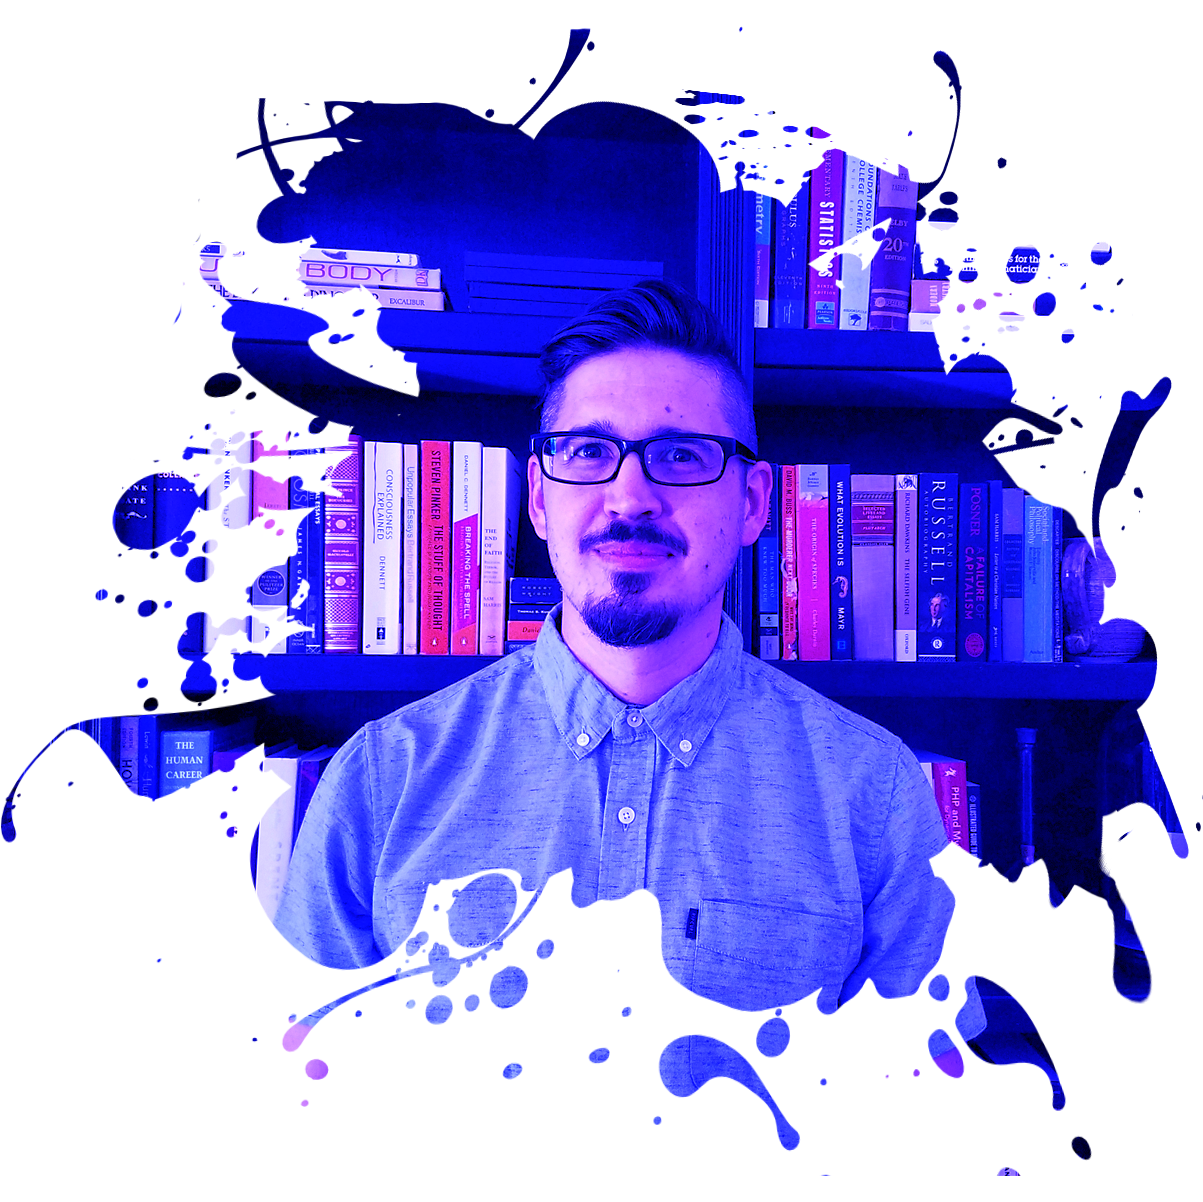
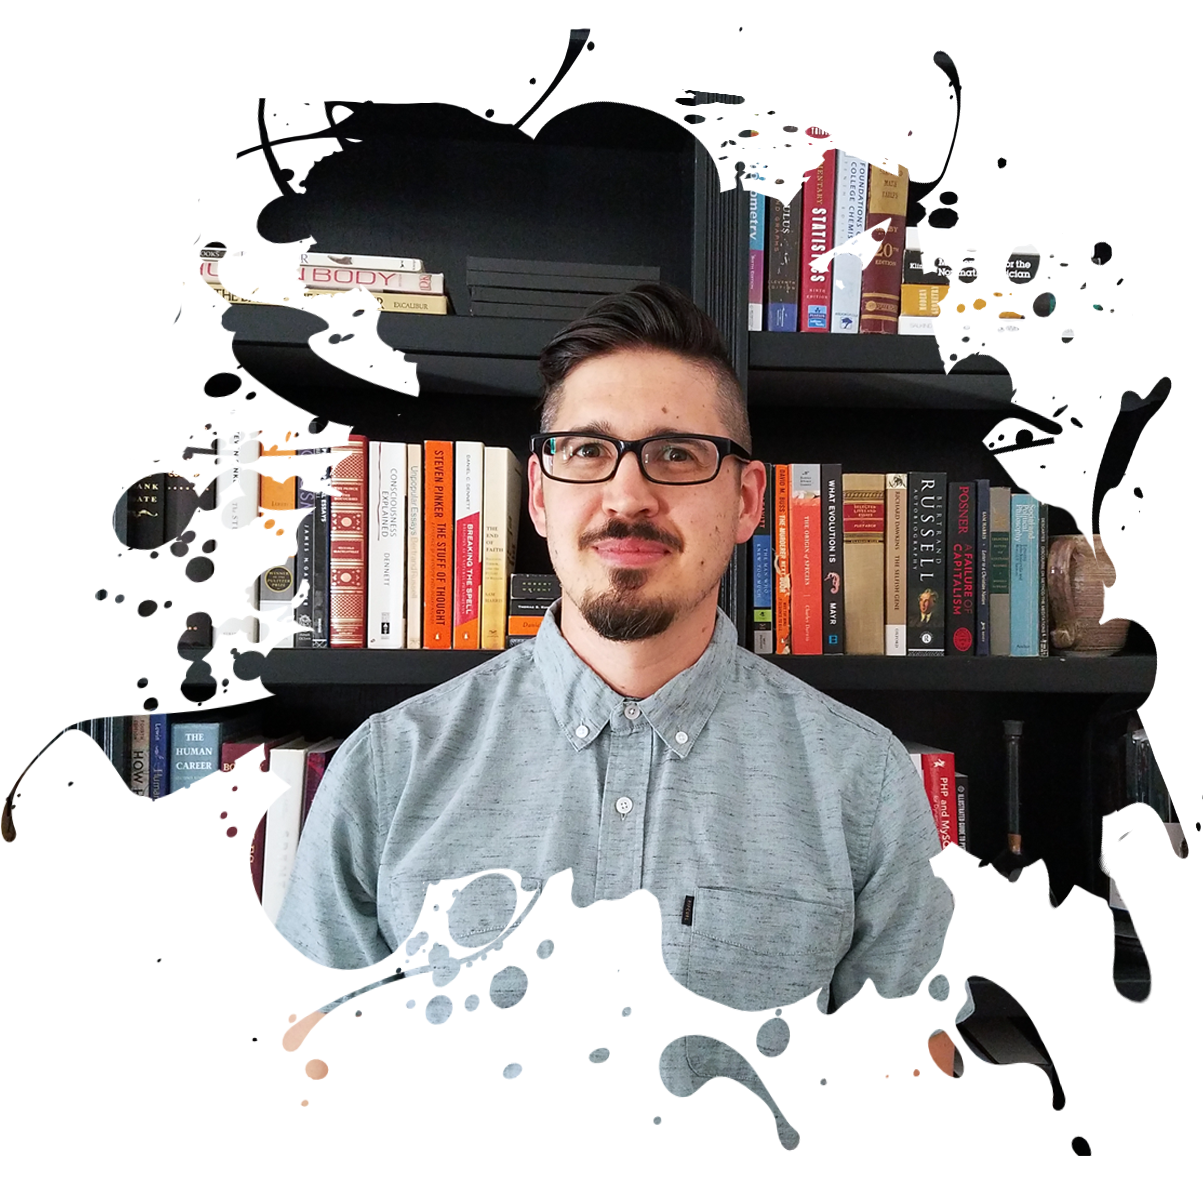
contact

diff --git a/src/index.css b/src/index.css
@@ -40,7 +40,7 @@ body {
 }
 .title-dark {
   font-size: 3rem;
-  color: rgb(53, 53, 53);
+  color: rgb(41, 41, 44);
   font-weight: bold;
 }
 
@@ -61,7 +61,10 @@ body {
 }
 .atag {
   text-decoration: none;
-  color: rgb(19, 64, 161);
+  color: cyan;
+}
+.light-gray-back {
+  background-color: #cacaca;
 }
 
 /* MENU ====================== */
@@ -97,7 +100,7 @@ body {
   border: 1px solid #cacaca;
 }
 .link-item:hover {
-  color: rgb(53, 53, 53);
+  color: rgb(41, 41, 44);
   background-color: rgb(206, 206, 206);
   padding: 1rem;
 }
@@ -146,7 +149,7 @@ body {
 }
 .blot-main:hover {
   transition: all 900ms;
-  background: rgb(19, 64, 161);
+  background: black;
   border-radius: 50%;
 }
 .img-back {
@@ -154,34 +157,33 @@ body {
   transition: all 900ms;
 }
 .img-back:hover {
-  background-color: rgb(19, 64, 161);
+  background-color: black;
   transition: all 900ms;
 }
 
 /* FORMS */
-.form{
+.form {
   margin: 1rem;
   padding: 1rem;
-  background-color: rgb(53, 53, 53)
+  background-color: rgb(41, 41, 44);
 }
 .contact-form {
   display: flex;
   justify-content: center;
-  margin: 1rem;
-  
+  /* margin: 1rem; */
 }
 .form-control {
   justify-content: center;
-  background-color: rgb(53, 53, 53);
+  background-color: rgb(41, 41, 44);
   width: 30rem;
 }
 .form-field {
   width: 20rem;
   border: none;
-  padding: .5rem;
+  padding: 0.5rem;
   margin-bottom: 0.5rem;
   font-size: 1.5rem;
-  background-color: rgb(53, 53, 53);
+  background-color: rgb(41, 41, 44);
   border-bottom: 1px solid gray;
   color: #cacaca;
 }
@@ -190,60 +192,86 @@ body {
   border: none;
   margin-bottom: 0.5rem;
   font-size: 1.5rem;
-  background-color: rgb(53, 53, 53);
+  background-color: rgb(41, 41, 44);
   border-bottom: 1px solid gray;
   color: #cacaca;
-  padding: .5rem;
+  padding: 0.5rem;
 }
-.form-msg-field::placeholder{
-  padding: .5rem;
- 
+.form-msg-field::placeholder {
+  padding: 0.5rem;
 }
 .label-container {
-  display:flex;
+  display: flex;
   vertical-align: center;
 
   width: 7rem;
   color: #cacaca;
   font-size: 1.5rem;
   margin-bottom: 0.5rem;
-  background-color: rgb(53, 53, 53);
+  background-color: rgb(41, 41, 44);
   /* border-bottom: 1px solid gray; */
   padding-left: 1rem;
-  padding-top: .5rem;
-
+  padding-top: 0.5rem;
 }
-.form-subtitle{
+.form-subtitle {
   vertical-align: center;
 }
 .form-btn {
   display: flex;
   justify-content: flex-end;
   border: none;
-  background-color: rgb(53, 53, 53)
+  background-color: rgb(41, 41, 44);
 }
 
 .btn {
   padding: 0.5rem;
   color: #cacaca;
-  background-color: rgb(53, 53, 53);
+  background-color: rgb(41, 41, 44);
   cursor: pointer;
   border: 1px solid gray;
   margin-right: 1rem;
   transition: all, 500ms;
 }
-.btn:hover{
+.btn:hover {
   transition: all, 500ms;
-  color: rgb(53, 53, 53);
+  color: rgb(41, 41, 44);
   background-color: #cacaca;
 }
 
 /* CONTACT */
-.contact-info{
-  border: 1px solid red;
-  display: flex;
-  justify-content: center;
+.contact {
+background-color: #cacaca;
+padding-bottom: 1rem;
 }
-.contact-type:{
-  font-weight: normal;
+.contact-container {
+display: flex;
+justify-content: center
 }
+.contact-methods {
+  background-color:rgb(41, 41, 44);
+  margin: 1rem;
+  padding: 1rem;
+}
+.contact-info:hover {
+transition: all, 500ms;
+background-color: rgb(51, 51, 51);
+
+}
+
+.contact-info {
+margin: 1rem;
+display: flex;
+padding: 1rem;
+}
+.contact-type {
+  color: #cacaca;
+  width: 5rem;
+}
+.link-wrapper {
+ 
+}
+.contact-link {
+  color: cyan;
+  margin-left: 1rem;
+}
+

diff --git a/src/components/Contact.js b/src/components/Contact.js
@@ -6,24 +6,45 @@ const Contact = () => {
       <div className="title-wrapper">
         <div className="title-dark">CONTACT</div>
       </div>
-      <div className="contact-info">
-        <div className="subtitle contact-type">Email: </div>
-        <a href="https://mail.google.com" className="a-link">
-          littletonse@gmail.com
-        </a>
-        <div className="subtitle contact-type">Github: </div>
-        <a href="https://github.com/slittleton" className="a-link">
-          slittleton
-        </a>
-        <div className="subtitle contact-type">LinkedIn: </div>
-        <a
-          href="https://www.linkedin.com/in/scott-littleton-1a1246161/"
-          className="a-link"
-        >
-          littletonse@gmail.com
-        </a>
+      <div className="contact-container">
+        <div className="contact-methods">
+          <div className="contact-info">
+            <div className=" contact-type">Email: </div>
+            <div className="link-wrapper">
+              <a href="https://mail.google.com" className="contact-link">
+                littletonse@gmail.com
+              </a>
+            </div>
+          </div>
+          <div className="contact-info">
+            <div className=" contact-type">Github: </div>
+            <div className="link-wrapper">
+              <a href="https://github.com/slittleton" className="contact-link">
+                slittleton
+              </a>
+            </div>
+          </div>
+
+          <div className="contact-info">
+            <div className=" contact-type">LinkedIn: </div>
+            <div className="link-wrapper">
+              <a
+                href="https://www.linkedin.com/in/scott-littleton-1a1246161/"
+                className="contact-link"
+              >
+                littletonse@gmail.com
+              </a>
+            </div>
+          </div>
+          
+        </div>
+        <ContactForm />
+        <div>
+        
+        </div>
+        
       </div>
-      <ContactForm />
+
     </div>
   );
 };

diff --git a/src/css/about.css b/src/css/about.css
@@ -1,7 +1,7 @@
 .top {
   background-color: #cacaca;
   display: flex;
-  color: rgb(53, 53, 53);
+  color: rgb(41, 41, 44);
   width: 100%;
   justify-content: center;
 }
@@ -13,7 +13,7 @@
   height: 400px;
 }
 .left-side {
-  background-color: rgb(53, 53, 53);
+  background-color: rgb(41, 41, 44);
   border-radius: 50%;
   margin-right: 2rem;
   margin-left: 1rem;
@@ -30,10 +30,10 @@
 .about-title {
   color: #cacaca;
   padding-left: 1rem;
-  background-color: rgb(53, 53, 53);
+  background-color: rgb(41, 41, 44);
 }
 .exp-title {
-  color: rgb(53, 53, 53);
+  color: rgb(41, 41, 44);
 
   background-color: #cacaca;
   font-size: 2rem;
@@ -42,7 +42,7 @@ text-align: left;
 padding-left: 1rem;
 }
 .exp-subtitle {
-  background-color: rgb(53, 53, 53);
+  background-color: rgb(41, 41, 44);
 }
 .bottom {
   margin-top: 2rem;
@@ -52,7 +52,7 @@ padding-left: 1rem;
 }
 
 .exp {
-  background-color: rgb(53, 53, 53);
+  background-color: rgb(41, 41, 44);
   display: flex;
 }
 .exp-grid {

diff --git a/src/components/Home.js b/src/components/Home.js
@@ -1,10 +1,10 @@
 import React, { useState, useEffect } from "react";
 import { Link } from "react-router-dom";
 import logo2 from "../img/logo2.png";
-import blot1 from "../img/blot1.png";
-import blot2 from "../img/blot2.png";
+import blot1 from "../img/blot1-c.png";
+import blot2 from "../img/blot2-c.png";
 import blot2back from "../img/blot2-back.png";
-import blot3 from "../img/blot3.png";
+import blot3 from "../img/blot3-c.png";
 import blot1Back from "../img/blot1-about.png";
 import blot3Back from "../img/blot3-contact.png";
 import CardFlip from "../components/layout/CardFlip";

diff --git a/src/css/cardFlip.css b/src/css/cardFlip.css
@@ -28,7 +28,7 @@
   position: absolute;
   top: 50%;
   left: 50%;
-  color: rgb(19, 64, 161);
+  color: rgb(51,51,51);
   font-weight: bold;
   width: 100%;
   transform: translate(-50%, -50%);
